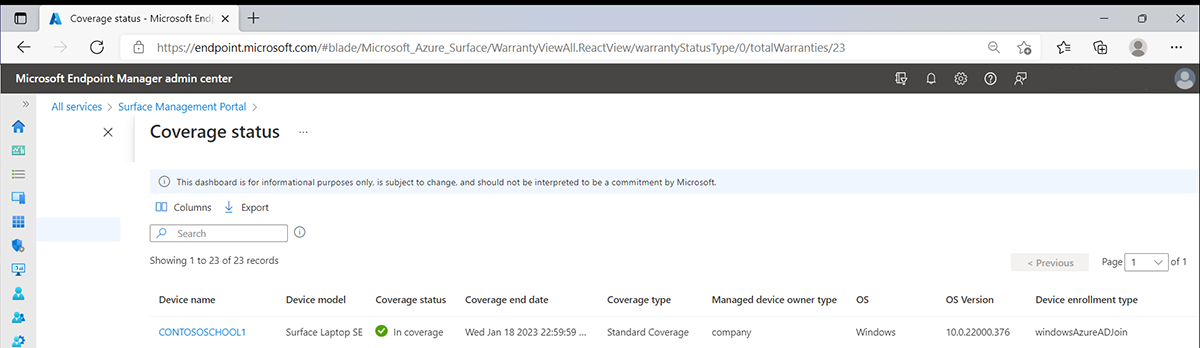
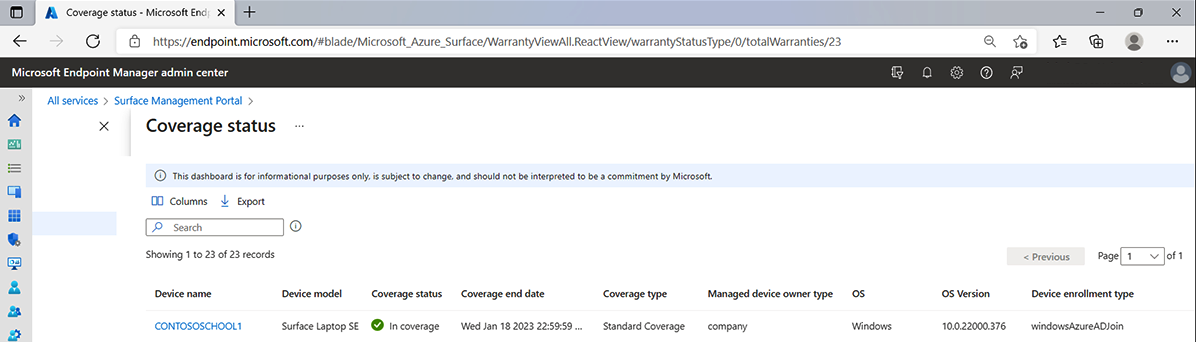
Updates

diff --git a/surface/surface-laptop-se-overview.md b/surface/surface-laptop-se-overview.md
@@ -38,7 +38,7 @@ Surface Laptop SE supports most applications that students and educators need, i
 When you enroll Surface Laptop SE for cloud management and users log in  for the first time, information from these Surface devices automatically flows into the [Surface Management Portal](surface-management-portal.md), giving you a single pane of glass for Surface-specific device admin activities. You can get insights into device compliance, support activity, and warranty coverage. Quickly see the status of each device, which ones are still in warranty or expiring soon, and the status of active support requests.
 
 :::image type="content" source="images/surface-management-portal-laptop-se.png" alt-text="Surface Management Portal showing Surface Laptop SE":::
-*Surface Management Portal showing Surface Laptop SE*
+*Surface Management Portal showing warranty coverage for Surface Laptop SE*
 
 ## Common admin scenarios
 
